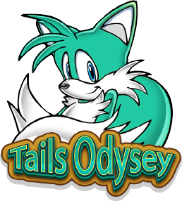
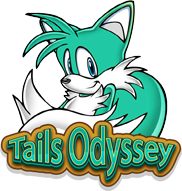
scene intro updated

diff --git a/Motor2D/j1SceneIntro.cpp b/Motor2D/j1SceneIntro.cpp
@@ -45,8 +45,8 @@ bool j1SceneIntro::Awake(pugi::xml_node& config)
 			push_node.attribute("h").as_int()
 			});
 	}
-	anim_plane.loop = config.child("animations").child("plane").attribute("loop").as_bool();
-	anim_plane.speed = config.child("animations").child("plane").attribute("speed").as_float();
+	anim_plane.loop = config.child("sceneintro").child("animations").child("plane").attribute("loop").as_bool();
+	anim_plane.speed = config.child("sceneintro").child("animations").child("plane").attribute("speed").as_float();
 
 
 	map.create(config.child("sceneintro").child("map").child_value());
@@ -69,6 +69,7 @@ bool j1SceneIntro::Start()
 	graphics = App->tex->Load("Assets/Sprites/Character/Player1.1.png");
 
 	current_anim = &anim_plane;
+
 	App->gui->Enable();
 	App->map->Enable();
 	if (App->map->Load(map.GetString()) == true) {
@@ -104,13 +105,18 @@ bool j1SceneIntro::PreUpdate()
 bool j1SceneIntro::Update(float dt)
 {
 	BROFILER_CATEGORY("SceneIntroUpdate", Profiler::Color::DarkMagenta);
-	
+
+	App->input->GetMousePosition(mousepos_y.x, mousepos_y.y);
+
 	App->map->Draw();
 	App->render->camera.x = cameraoffset;
 	cameraoffset -= 2;
+	if (App->gui->b_settings == false) LOG("enter");
 	animation_Rect = current_anim->GetCurrentFrame(dt);
 
-	App->render->Blit(graphics, 100, 60, &animation_Rect, SDL_FLIP_NONE);
+	if (cameraoffset == -6112) cameraoffset = 0;
+
+	App->render->Blit(graphics, mousepos_y.x/2-70, mousepos_y.y/2, &animation_Rect, SDL_FLIP_NONE, 2, 0.0f);
 
 	return true;
 }

diff --git a/Motor2D/ButtonFunctions.cpp b/Motor2D/ButtonFunctions.cpp
@@ -42,11 +42,15 @@ int f_CloseWindow() {
 }
 
 int f_Scene1toMainMenu() {
+
+	App->gui->b_settings = true;
 	App->fade->FadeToBlack(App->scene, App->sceneintro);
 	return true;
 }
 
 int f_Scene2toMainMenu() {
+
+	App->gui->b_settings = true;
 	App->fade->FadeToBlack(App->scene2, App->sceneintro);
 	return true;
 }

diff --git a/Motor2D/j1SceneIntro.h b/Motor2D/j1SceneIntro.h
@@ -43,6 +43,7 @@ private:
 	p2SString music_path;
 	p2SString fx_path;
 	iPoint cam_pos;
+	iPoint mousepos_y;
 	Levels load_scene;
 
 	SDL_Texture* debug_tex;
